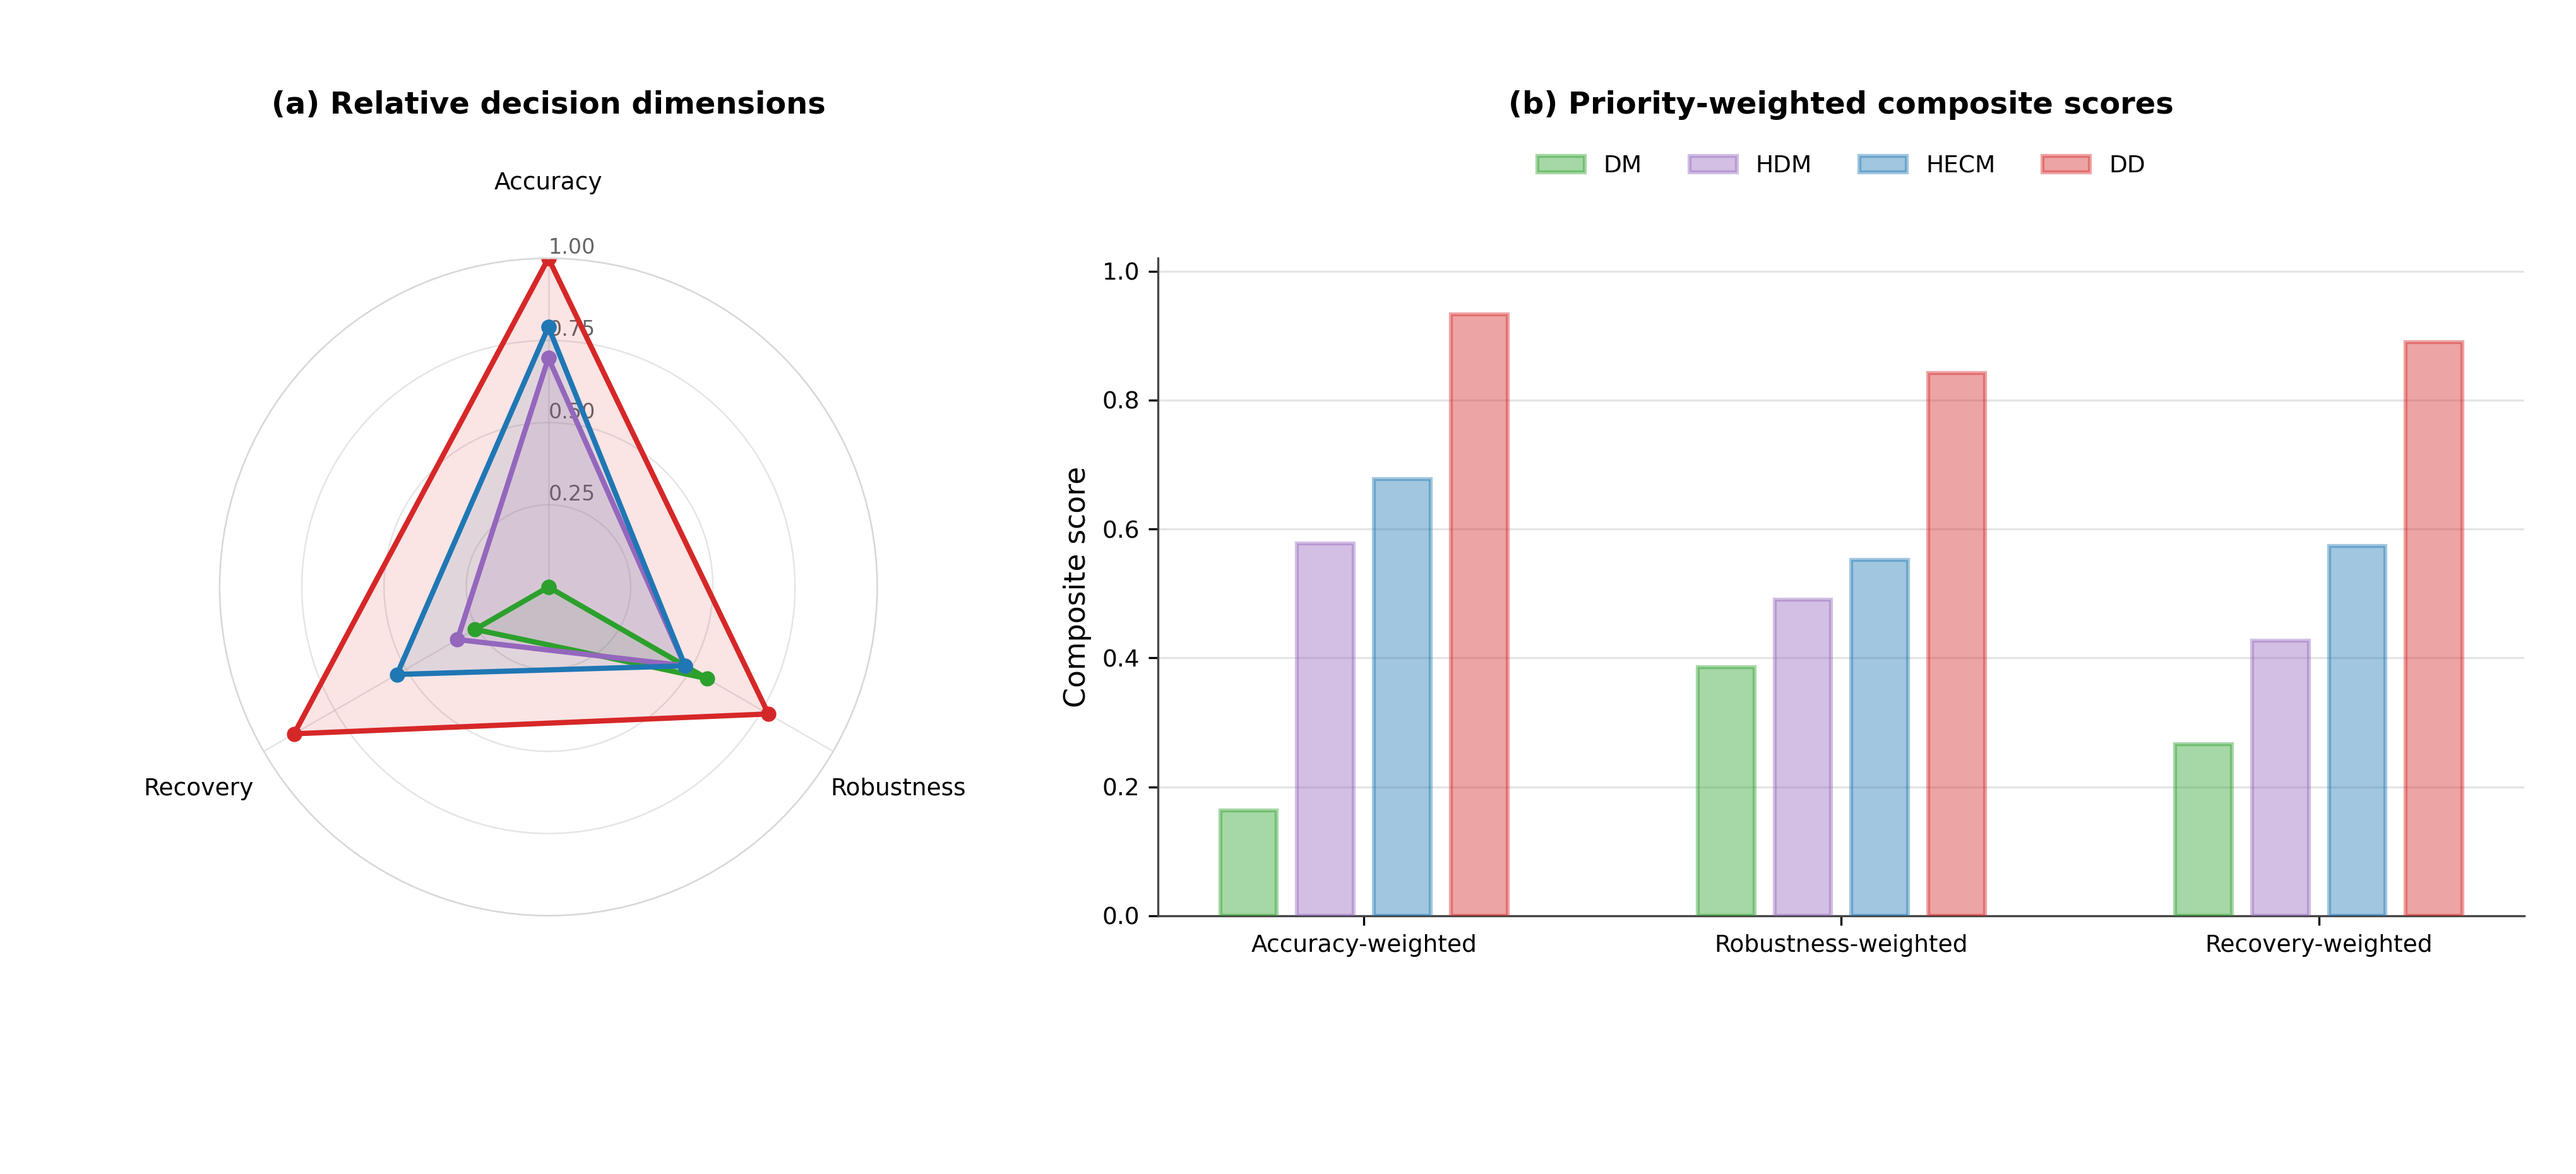
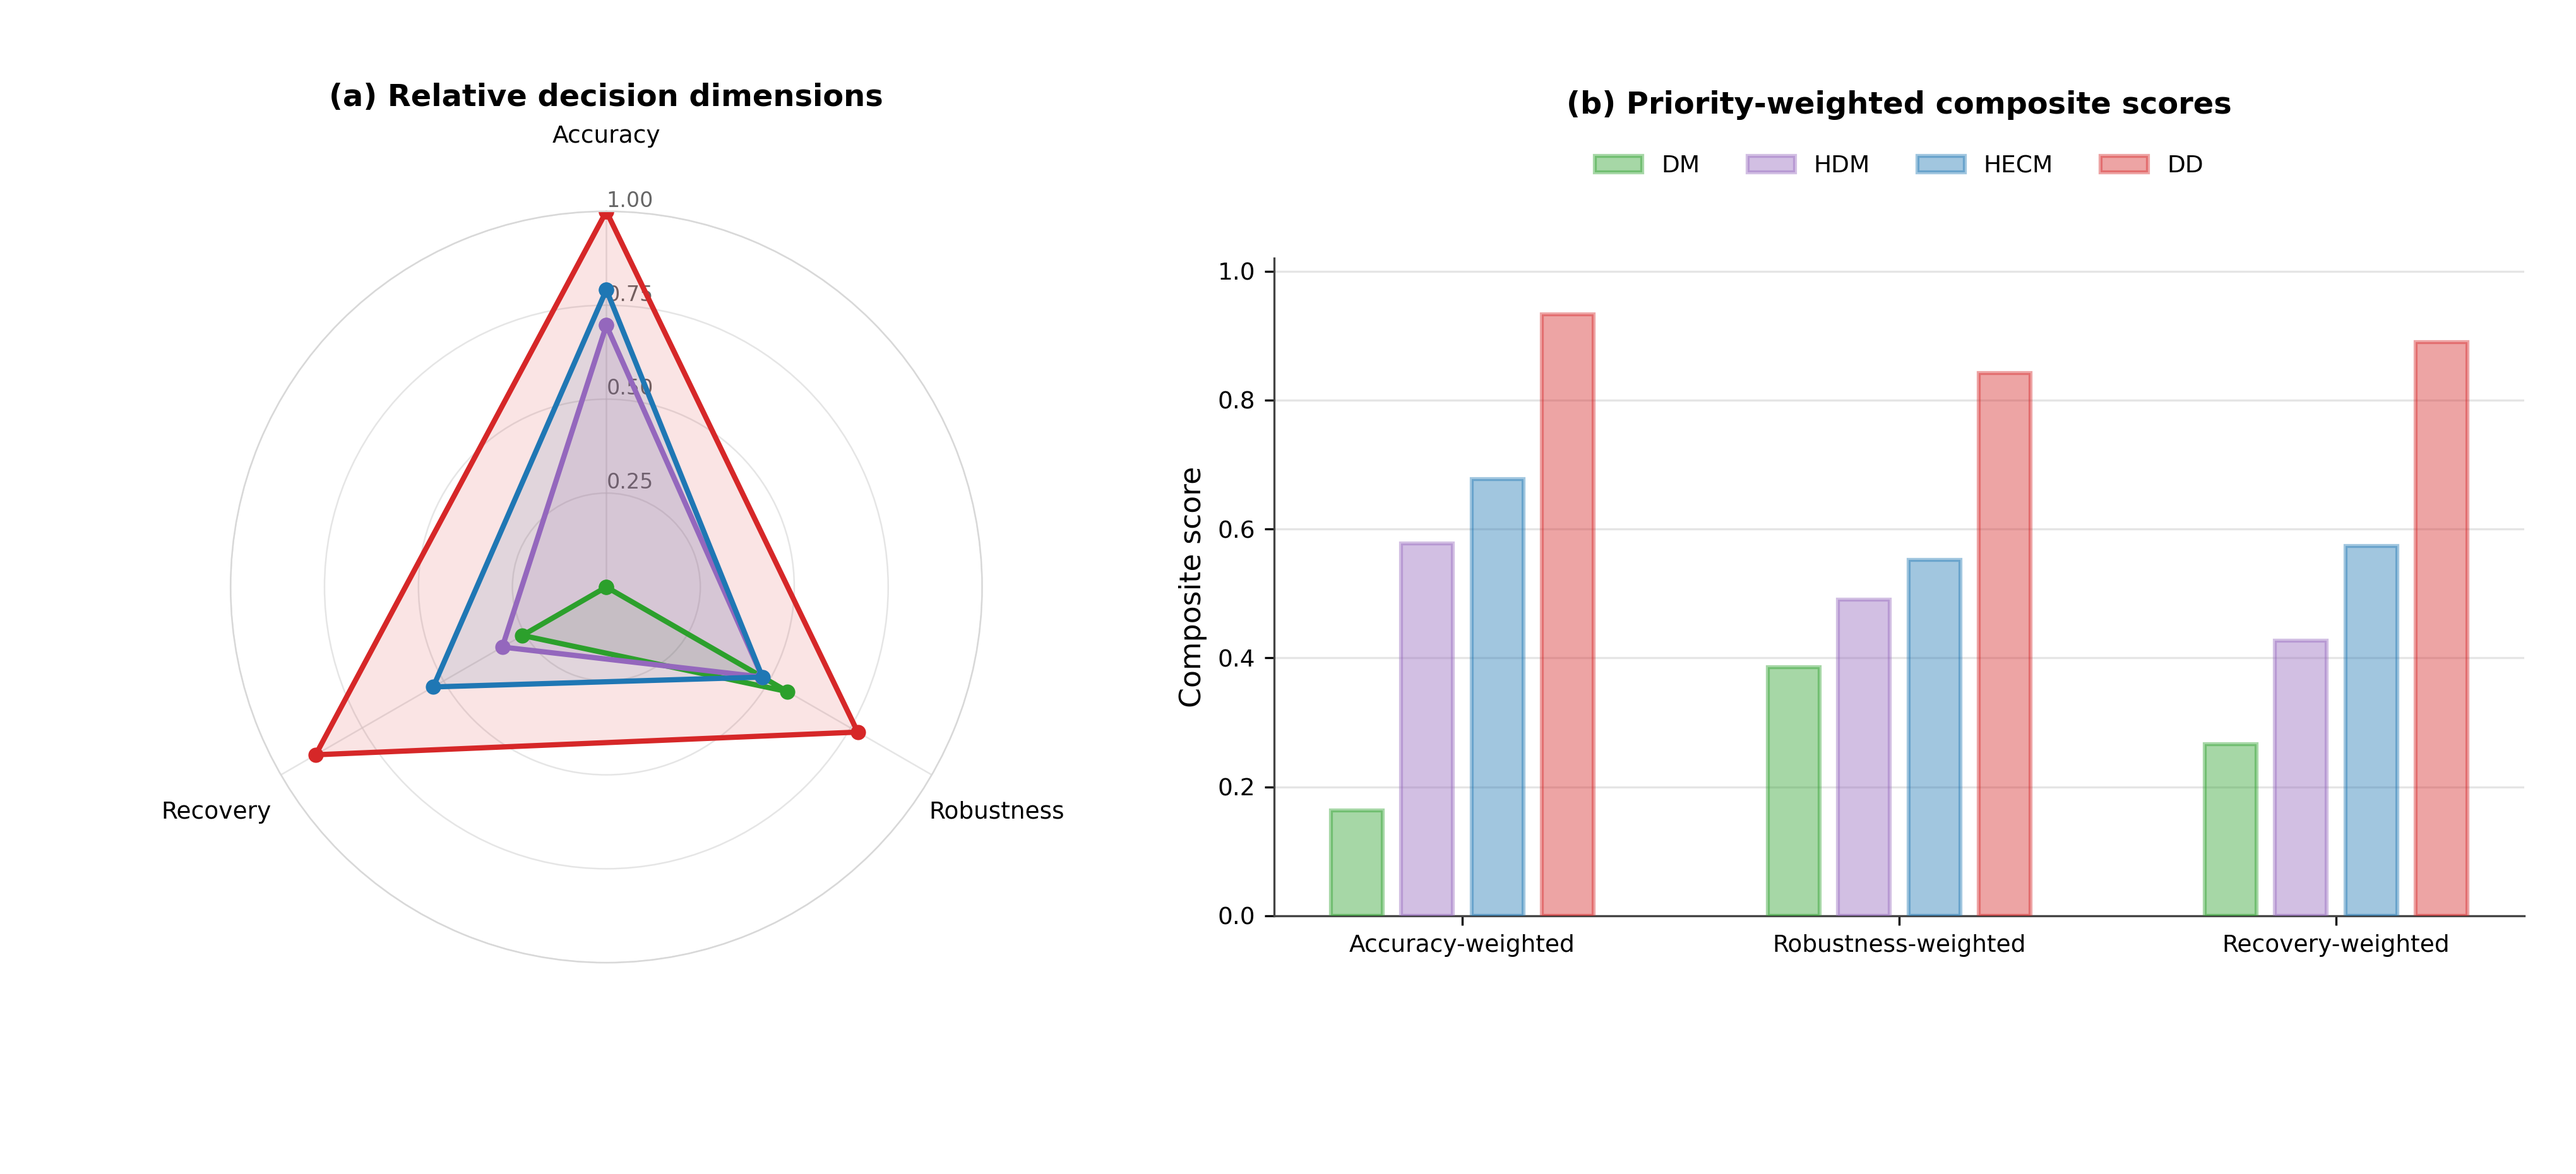
Emphasize Figure 13b radar panel

diff --git a/LATEX/JES/paper_robustness_benchmark/figures/build_revised_all_cells_figures.py b/LATEX/JES/paper_robustness_benchmark/figures/build_revised_all_cells_figures.py
@@ -381,7 +381,7 @@ def figure_13_decision(
     angles = np.linspace(0, 2 * np.pi, len(labels), endpoint=False)
     closed_angles = np.r_[angles, angles[0]]
     fig = plt.figure(figsize=(13.6, 6.2))
-    grid = fig.add_gridspec(1, 2, width_ratios=(1.0, 1.45), wspace=0.12)
+    grid = fig.add_gridspec(1, 2, width_ratios=(1.1, 1.3), wspace=0.12)
     radar = fig.add_subplot(grid[0, 0], projection="polar")
     bars = fig.add_subplot(grid[0, 1])
 
@@ -405,7 +405,7 @@ def figure_13_decision(
     radar.grid(color="#d8d8d8", linewidth=0.6)
     radar.spines["polar"].set_color("#d8d8d8")
     radar.spines["polar"].set_linewidth(0.6)
-    radar.set_title("(a) Relative decision dimensions", y=1.22, pad=0)
+    radar.set_title("(a) Relative decision dimensions", y=1.14, pad=0)
 
     profile_names = [c for c in profiles.columns if c != "Model"]
     x = np.arange(len(profile_names), dtype=float) * 1.18
@@ -425,7 +425,9 @@ def figure_13_decision(
     bars.grid(axis="x", visible=False)
     bars.spines[["top", "right"]].set_visible(False)
     bars.legend(ncol=4, frameon=False, loc="upper center", bbox_to_anchor=(0.5, 1.19))
-    fig.subplots_adjust(left=0.03, right=0.98, bottom=0.22, top=0.78)
+    fig.subplots_adjust(left=0.03, right=0.98, bottom=0.18, top=0.82)
+    bars_box = bars.get_position()
+    bars.set_position([bars_box.x0, 0.22, bars_box.width, 0.56])
     if output_path is None:
         save(fig, "Figure_13_Decision_Synthesis_REVISED")
     else:
